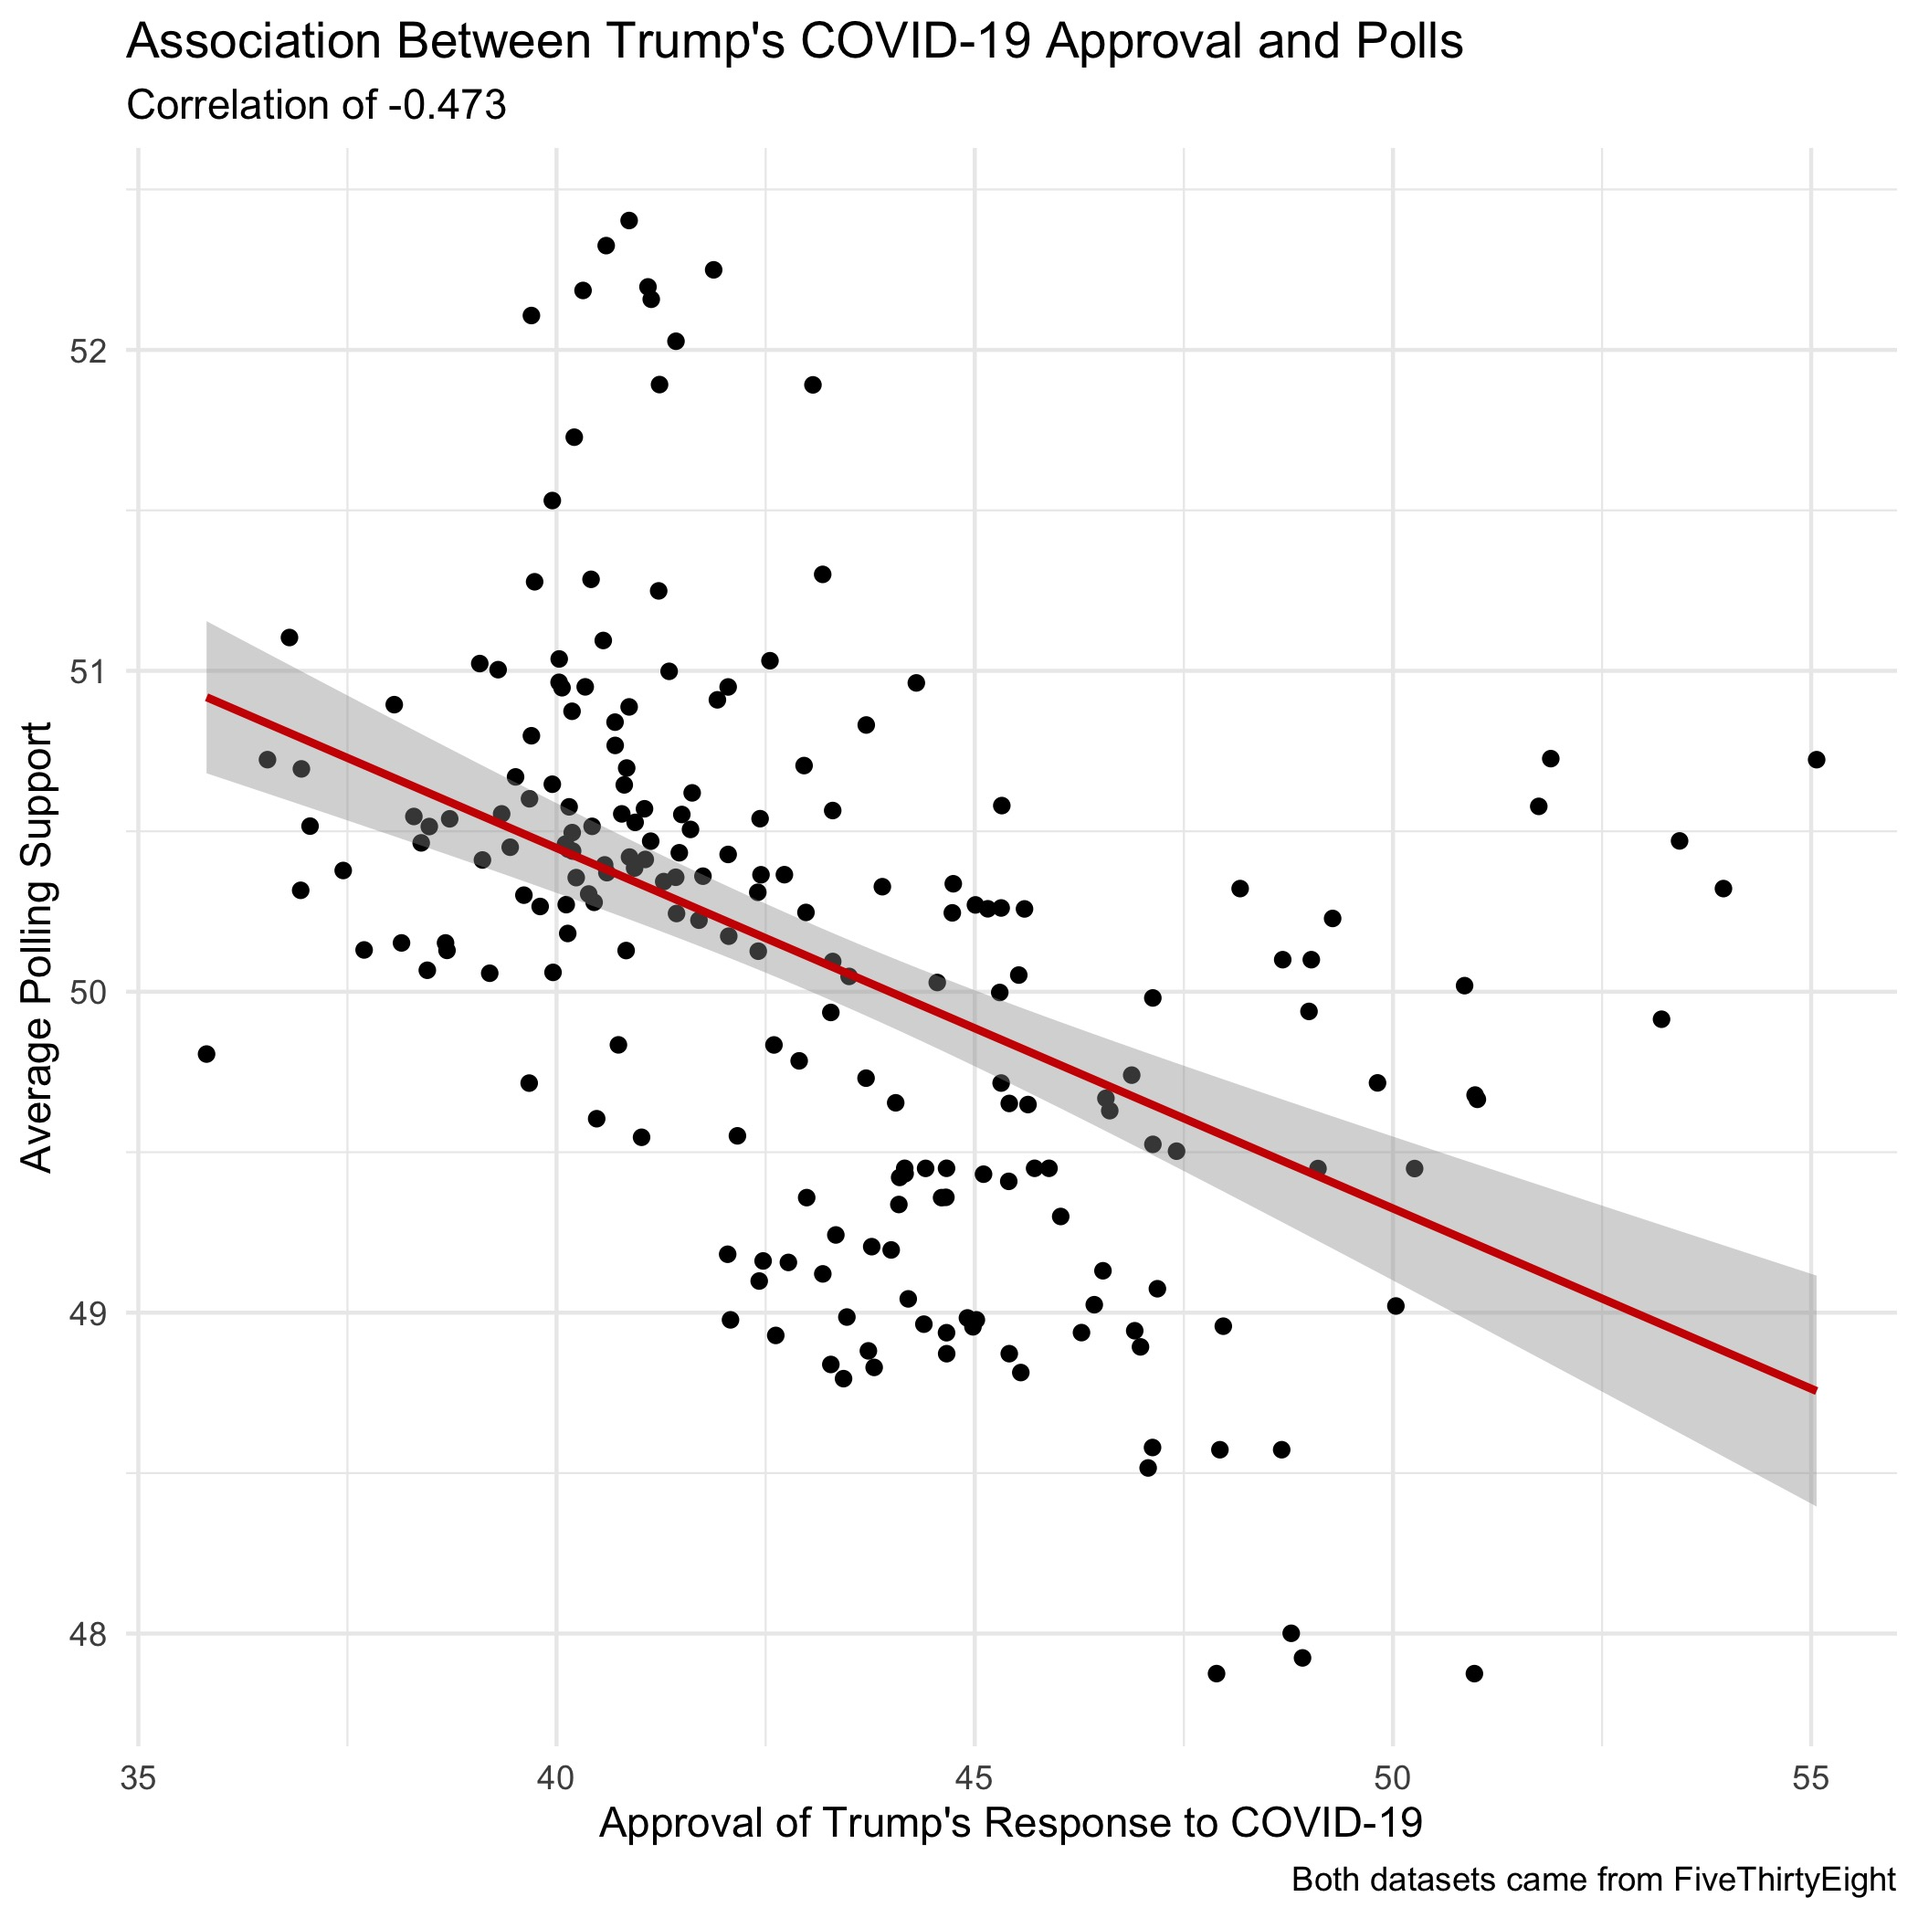
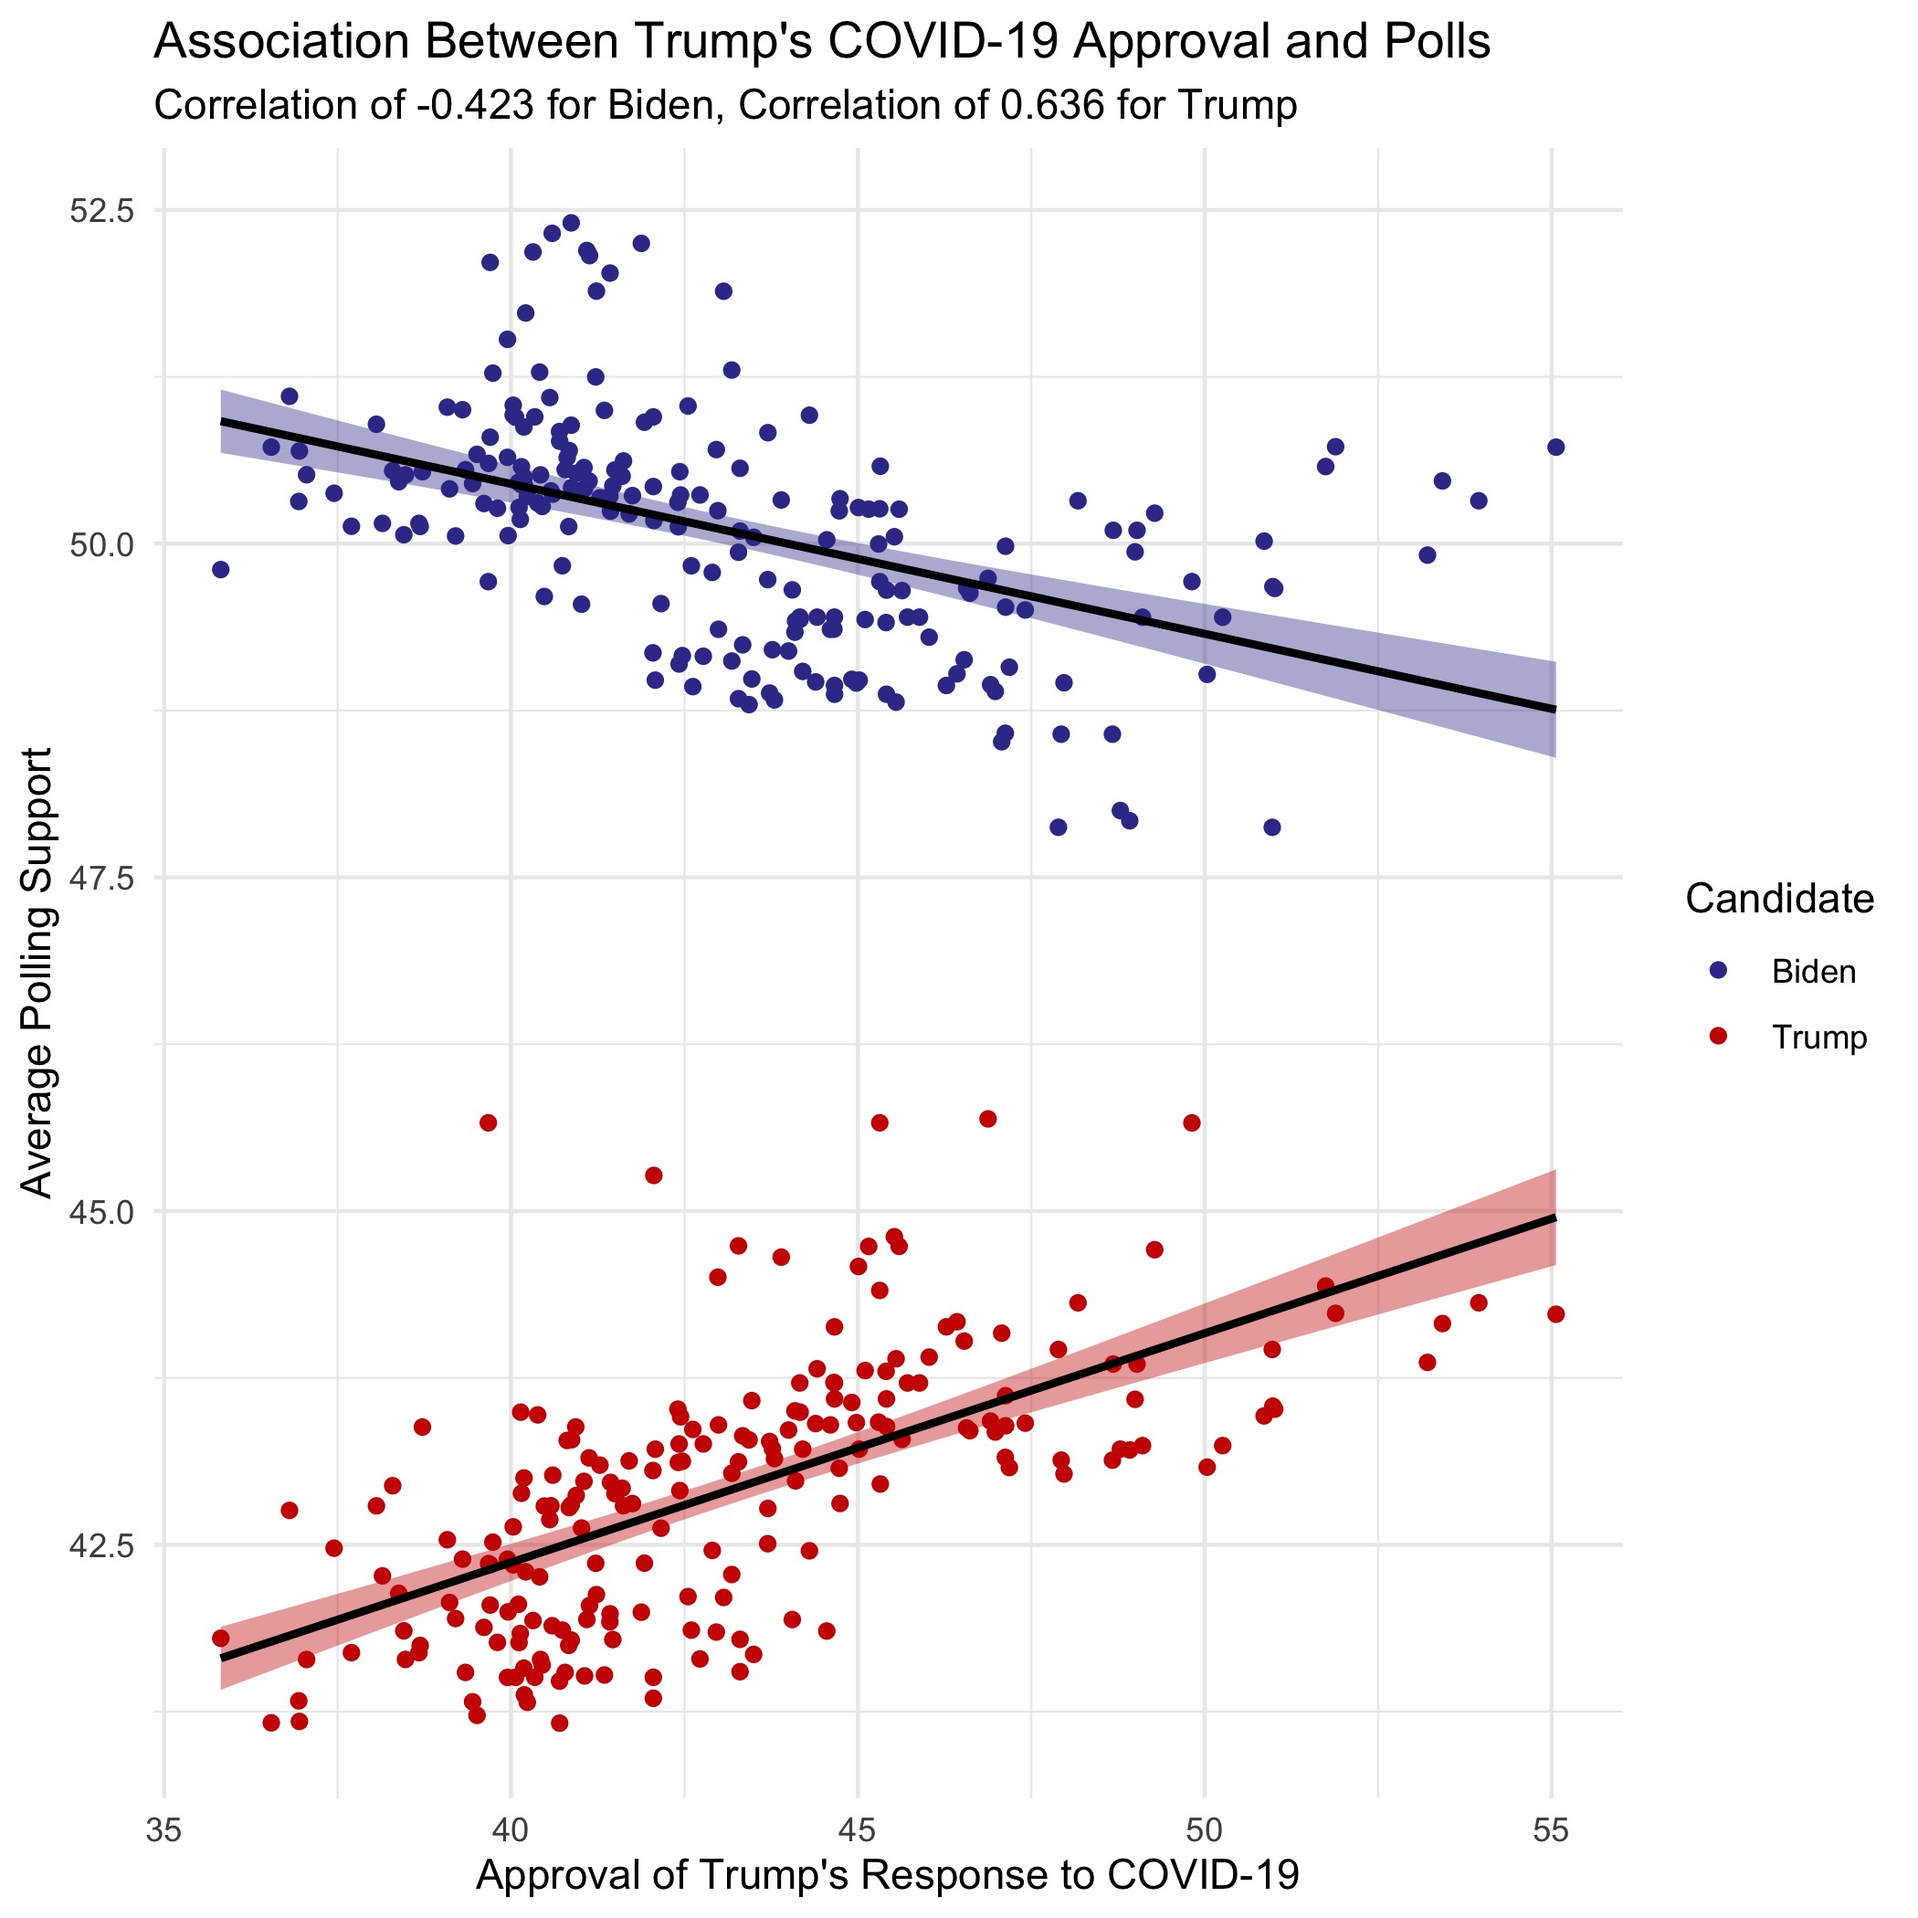
updated readme

diff --git a/posts/shocks.md b/posts/shocks.md
@@ -3,36 +3,36 @@
 
 ### What the Literature Says about Shocks
 
-The media loves a good "October Surprise," but how do shocks actually translate into electoral outcomes? Did the opening of the investigation into Clinton's emails cause the 2016 Democratic contender to lose the race? How did Trump manage to win the office after the release of the Access Hollywood tape? While there have been personal scandals in the 2020 race (Bob Woodward, taxes), COVID-19 reigns as the defining issue of this year.
+The media loves a good "October Surprise," and 2020 has had its fair share of big events. COVID-19 steadily remains the defining issue of the 2020 election, in spite of scandals ranging from [tax avoidance](https://www.nytimes.com/interactive/2020/09/27/us/donald-trump-taxes.html) by the president, [misleading the public](https://www.nytimes.com/2020/09/09/us/politics/woodward-trump-book-virus.html) on the state of COVID-19, and accusations of suspicious [emails](https://www.vox.com/2020/10/14/21515776/hunter-biden-emails-giuliani). How will shocks such as COVID-19 translate into electoral outcomes?
 
-It certainly sounds interesting to think that shark attacks[^achen] led to Woodrow Wilson's defeat in the 1916 election, but most sensational headlines come from flawed statistics.[^fowler] Such voter behavior seems irrational, but studies on tornadoes[^healy] reveal that voters respond to economic damage resulting from the tornados rather than death counts. With this considers, it appears that voters response to how the incumbent *handles* such shocks rather than blaming the incumbent for the occurrence of the events. How does this translate to COVID-19 and the 2020 presidential election?
+It certainly sounds interesting to think that shark attacks[^achen] led to Woodrow Wilson's defeat in the 1916 election, but most sensational headlines come from flawed statistics.[^fowler] Such voter behavior seems irrational, but studies on tornadoes[^healy] reveal that voters respond to economic damage resulting from the tornadoes rather than death counts. With this considers, it appears that voters response to how the incumbent *handles* such shocks rather than blaming the incumbent for the occurrence of the events.
 
 
 ### The Impact of COVID-19 on the 2020 Election
 
-The [economic numbers](economy.md) of 2020 undoubtedly reflect COVID-19's damage, so incorporating economic data in models helps pick up on some of the 2020 shocks. However, voters' emotional responses to COVID and other events of 2020 may be independent of economic circumstances. Polls should pick up any sort of non-economic reaction to the circumstances. Taking COVID-19 metrics, for example, shows that deaths and positive test counts have fairly strong, negative correlations with Donald Trump's approval ratings:[^metrics]
+The [economic numbers](economy.md) of 2020 reflect the damage of COVID; incorporating economic data into prediction models picks up on some of the 2020 shocks. However, voters' emotional responses to certain events of 2020 may exist independent of economic circumstances. In this situation, polls should pick up any sort of non-economic reaction by the public. Examining COVID-19 metrics, for example, shows that deaths and positive test counts have fairly strong, negative correlations with Donald Trump's approval ratings:[^metrics]
 
 
-|              |  avg_support   |    death | deathIncrease |   positive |positiveIncrease |
-| -------------|----------------|-----------|--------------|------------|-----------------|            
-|avg_support    |   1.00000000 |-0.64782421  | -0.06447719 |-0.51258921  |     -0.8083311 |
+|              |    Death Count    |   Positive Results |Increase in Positive Results|
+|--------------|-------------------|-------------------|-----------------|            
+|avg_support   |  -0.64782421      |-0.51258921       |     -0.8083311 |
 
 ![covid](../figures/shocks/covid_polls.jpg)
 
-Not surprisingly, public opinion about Donald Trump's handling of the COVID-19 crisis and his overall polling numbers also appear to have a moderate, negative correlation:
+Not surprisingly, public opinion about Donald Trump's handling of the COVID-19 crisis has a moderately strong, positive correlation with his overall polling numbers and the inverse if true for Biden's poll numbers and Trump's COVID approval:
 
 ![covid_approval](../figures/shocks/covid_approval.jpg)
 
-These correlations reveal that incorporating additional variables into a model to reflect COVID-19 might be redundant. Rather, polls and economic metrics can serve as a proxy for impact of the shocks of 2020 on the electorate.
+Since COVID metrics and COVID-specific approval is correlated with metrics already included in my models, incorporating these additional variables into a model would be redundant. Rather, polls and economic metrics can serve as a proxy for impact of the shocks of 2020 on the electorate.
 
 ### Modeling with Economic Numbers and Polls, by State
 
 [Last week's model](turnout.md) was admittedly weak, but a few minor tweaks strengthened the model significantly. As I mentioned, fitting a separate model for each state left each model extremely susceptible to overfitting and poor out-of-sample performance. To fix this, I made these changes:
 
-* I fit models for 3 different categories of states: strong blue states, strong red states, and battleground states,[^categories] rather than a model for all 50 states
-* I made the model much more parsimonious, using state polling numbers from 2 weeks out, incumbency status, the interaction between incumbency and polls, Q1 GDP growth, that state's Democratic popular vote margin in the previous election, and the change in that state's Black population.
+* I fit separate models for 3 different categories of states: strong or likely blue states, strong or likely red states, and battleground states,[^categories] with the thinking that these states exhibit similar behavior surrounding elections. With this method, I used each state as an individual observation of election outcomes, which substantially increased the sample size of the data when constructing the model.
+* I cut out several of the predictors from the previous week, making the model much more parsimonious. This time, the model predicts the voter turnout for each party using state polling numbers from 2 weeks out, incumbency status, the interaction between incumbency and polls, Q1 GDP growth, that state's Democratic popular vote margin in the previous election, and the change in that state's Black population.
 
-I maintained the underlying binomial logistic model and varied the turnout as I did before. This method yielded must closer and more reasonable predictions for every state:
+I maintained the underlying binomial logistic model and varied the turnout as I did before. This method yielded much closer and more reasonable predictions for every state:
 
 ![map](../figures/shocks/margin_map.jpg)
 
@@ -41,7 +41,7 @@ I maintained the underlying binomial logistic model and varied the turnout as I 
 | Biden     | 350[^DC]        | 0.528                  |
 | Trump     | 214             | 0.423                  |
 
-This above map shows the win margin and displays how close each race is in each state, but [this](../figures/shocks/winner_map.jpg) map clearly shows the predicted winner for each state.
+The above map shows the win margin and displays how close each race is in each state, but [this](../figures/shocks/winner_map.jpg) map clearly shows the predicted winner for each state.
 
 ### Looking Ahead
 

diff --git a/README.md b/README.md
@@ -17,3 +17,7 @@ This analysis examines political advertising on various media platforms and take
 
 # [6. Voter Turnout](posts/turnout.md)
 How do experts anticipate COVID-19 affecting voter turnout? This post considers possible effects of COVID-19 on turnout, explores how different forecasters account for the resulting variability, and looks at models that simulate fluctuations in turnout.
+
+# [7. The Impact of COVID-19](posts/shocks.md)
+**DRAFT** This post examines the relationship between COVID-19 and traditional polls numbers. After a brief descriptive analysis, an updated model provides predictions for two weeks out.
+
